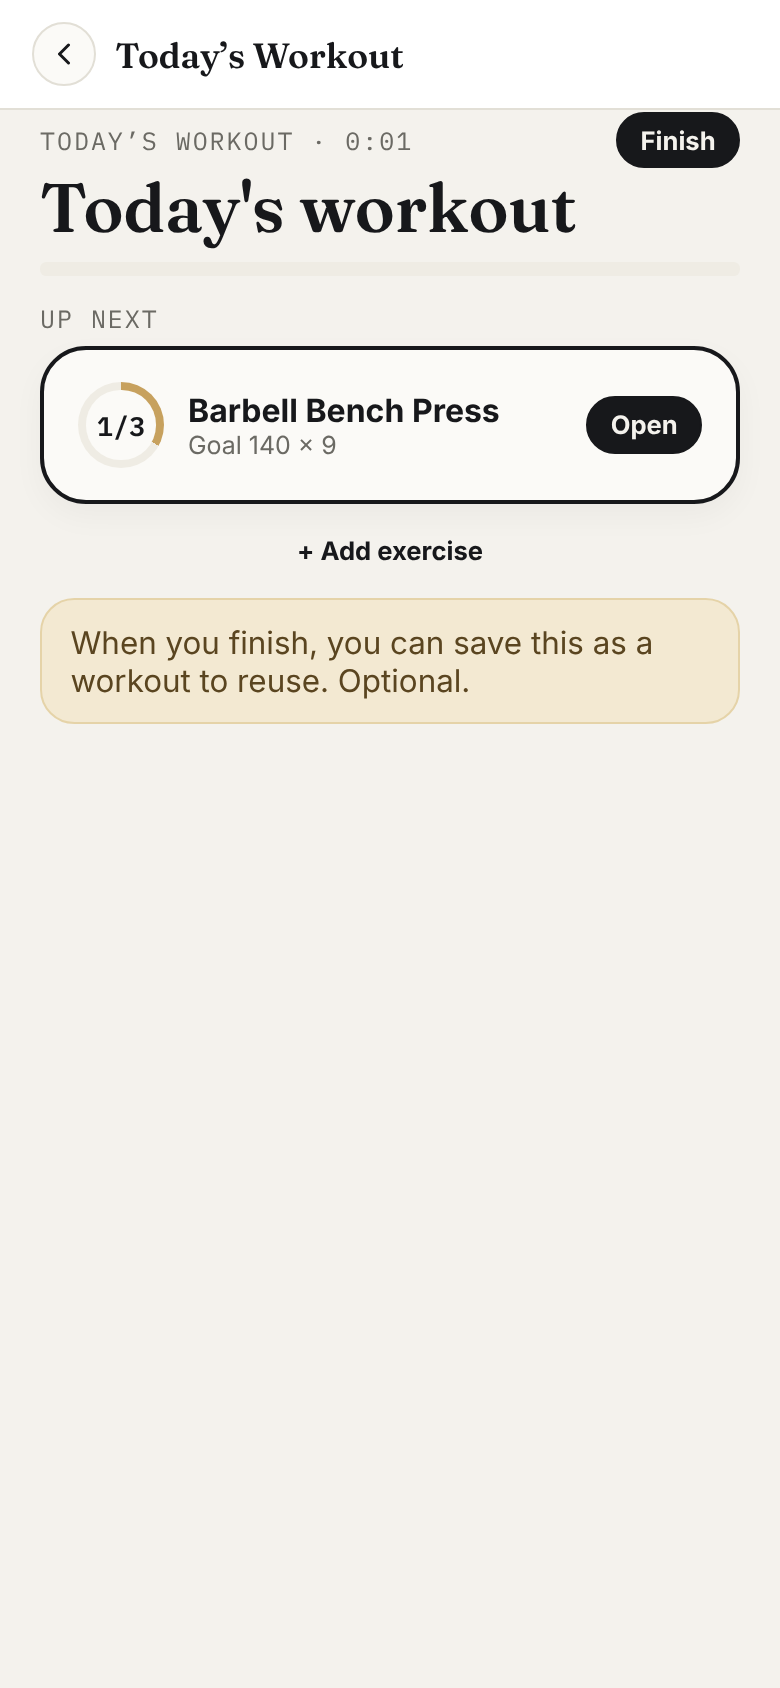
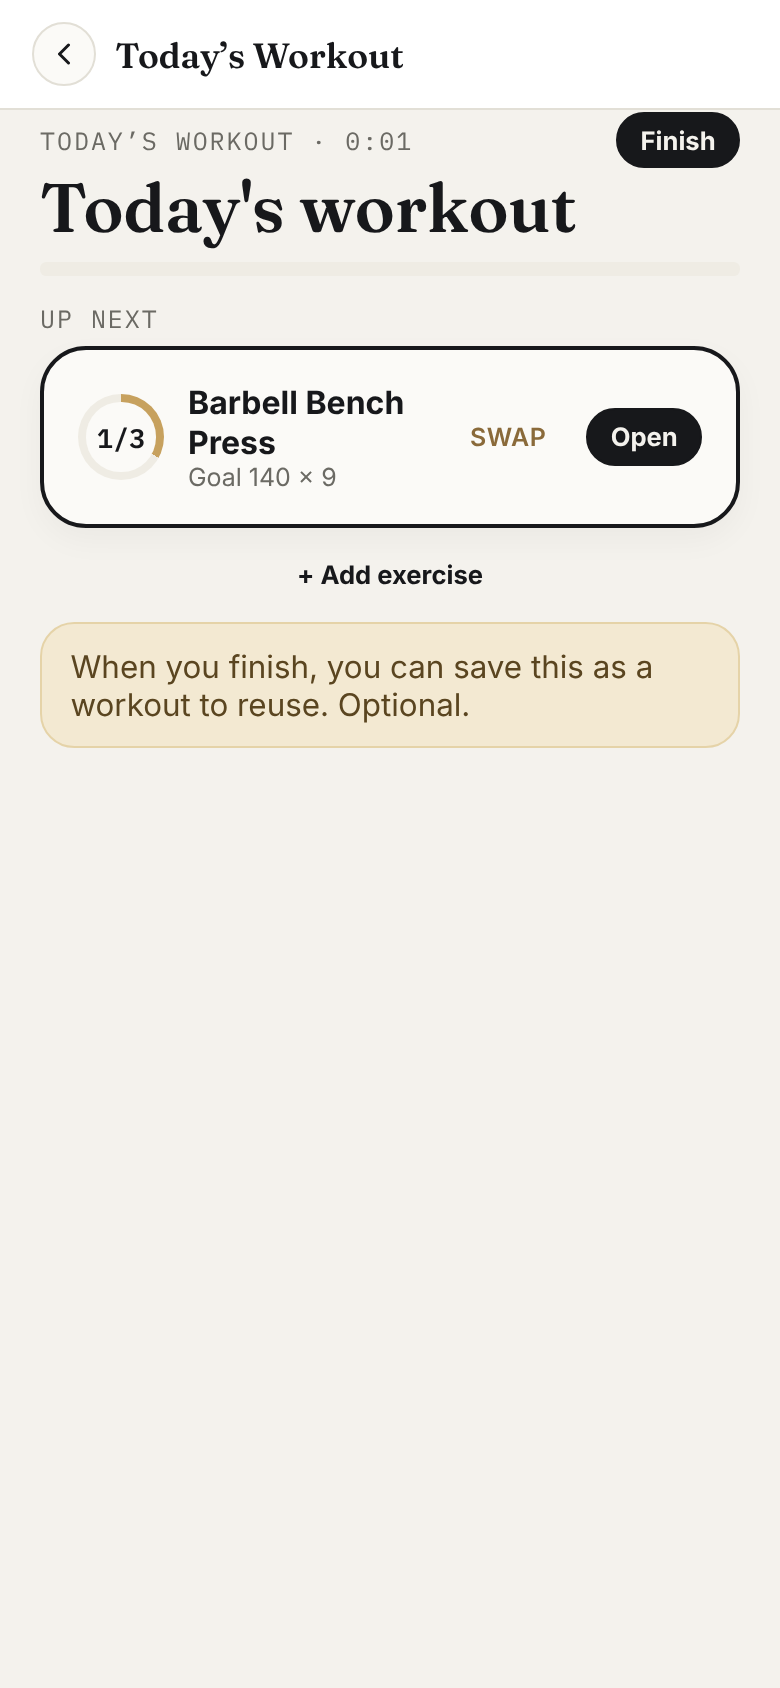
Smart program batch: Phase 6 - smart swaps (phones 8-9)
A real swap flow, reachable from the exercise detail screen and the
live-workout overview row (the Block Builder day editor keeps its own
existing substitute mechanism unchanged). Step 1: reason chips plus
ranked alternatives from Phase 1's rankSwaps() - "No equipment" filters
by the block's own equipment setting, "Hurts" shows the one safe line
and nothing else medical. Step 2: a suggested start weight from
suggestSwapStartWeight(), using only the user's own history on the new
exercise - never a guessed number. "Just today" touches only the live
session; "Replace in my version" copy-on-edits active_training_block
with Undo. Past sessions are never rewritten either way.

Claude-Session: https://claude.ai/code/session_015L9cyNh1v2vMK9ZcFbmR4a

diff --git a/index.html b/index.html
@@ -10488,6 +10488,7 @@ function renderLiftsTab() {
   if (showHowTargetsPage) return renderHowTargetsPage(panel);
   if (showDeloadScreen) return renderDeloadScreen(panel);
   if (showBlockView) return renderBlockView(panel);
+  if (showSmartSwap) return smartSwapStep === 2 ? renderSmartSwapStep2(panel) : renderSmartSwapStep1(panel);
   updateScreenSheetTitle();
   if (plusLogSetMode === 'pick') return renderPlusLogSetPicker(panel);
   if (plusLogSetMode === 'quick') return renderPlusLogSetQuick(panel, plusLogSetExerciseIdx);
@@ -10910,6 +10911,7 @@ function renderWorkoutOverview(panel) {
             <div><strong>${esc(current.name)}</strong></div>
             <div class="muted small">${goalLineForOverview(current)}</div>
           </div>
+          <button class="btn-link" style="flex:none;min-width:0;margin-right:0.5rem;" data-wo-swap="${esc(current.name)}">Swap</button>
           <button class="btn btn-sm btn-primary" style="flex:none;min-width:0;" data-wo-open="${esc(current.name)}">Open</button>
         </div>
       </div>` : ''}
@@ -10922,6 +10924,7 @@ function renderWorkoutOverview(panel) {
             <div>${esc(ex.name)}</div>
             <div class="muted small">${ex.prescribedSets ? `${ex.setsLogged.length}/${ex.prescribedSets} sets` : `${ex.setsLogged.length} set${ex.setsLogged.length === 1 ? '' : 's'} logged`}${isExerciseStalled(ex.name) ? ` &middot; stalled 4+ sessions` : ''}</div>
           </div>
+          <button class="btn-link" style="flex:none;min-width:0;" data-wo-swap="${esc(ex.name)}">Swap</button>
         </div>
       </div>`).join('')}
     <button class="btn btn-sm btn-ghost" id="qwAddMoreBtn" style="width:100%;margin-bottom:0.6rem;">+ Add exercise</button>
@@ -10932,6 +10935,10 @@ function renderWorkoutOverview(panel) {
   $$('[data-wo-open]', panel).forEach((row) => row.addEventListener('click', () => {
     const idx = session.exercises.findIndex((e) => e.name === row.dataset.woOpen);
     if (idx !== -1) { liveWorkoutScreen = idx; resetExerciseDetailInput(session.exercises[idx]); renderLiftsTab(); }
+  }));
+  $$('[data-wo-swap]', panel).forEach((btn) => btn.addEventListener('click', (e) => {
+    e.stopPropagation();
+    openSmartSwap(btn.dataset.woSwap);
   }));
 }
 
@@ -11121,7 +11128,8 @@ function renderExerciseDetailScreen(panel, idx) {
       </div>`).join('')}
 
       ${!exerciseDetailJustFinished ? `
-      <div class="row" style="justify-content:flex-end;margin-top:0.4rem;">
+      <div class="row" style="justify-content:space-between;margin-top:0.4rem;">
+        <button class="btn-link" id="exSwapBtn">Swap exercise</button>
         <button class="btn-link" id="exFinishExerciseBtn">${ex.setsLogged.length > 0 ? 'Finish exercise' : 'Skip exercise'} &rarr;</button>
       </div>` : ''}
 
@@ -11176,6 +11184,8 @@ function renderExerciseDetailScreen(panel, idx) {
   if (logBtn) logBtn.addEventListener('click', () => logCurrentSet(idx));
   const finishBtn = $('#exFinishExerciseBtn', panel);
   if (finishBtn) finishBtn.addEventListener('click', () => finishCurrentExercise(idx));
+  const swapBtn = $('#exSwapBtn', panel);
+  if (swapBtn) swapBtn.addEventListener('click', () => openSmartSwap(ex.name));
   const nextBtn = $('#exNextExerciseBtn', panel);
   if (nextBtn) nextBtn.addEventListener('click', () => goToNextExercise(idx));
 }
@@ -15907,6 +15917,15 @@ let blockBuilderStarting = false;
 let showBlockView = false;
 let showDeloadScreen = false; // true while the deload suggestion screen (phone 3) is open
 let blockLengthEditing = false; // inline "Change it in Edit program" chip row open on the block view
+
+// Smart Program batch, Phase 6 (phones 8-9) - smart swap, reached from
+// the exercise detail screen and the live-workout overview row.
+let showSmartSwap = false;
+let smartSwapStep = 1; // 1 (reason + ranked matches) | 2 (start weight + scope)
+let smartSwapExerciseName = null; // the exercise being swapped out
+let smartSwapReason = null; // one of SWAP_REASONS' keys, or null
+let smartSwapPickedName = null; // the candidate chosen in step 1
+let smartSwapScope = null; // 'just_today' | 'replace_version' | null
 // Manual per-instance overrides UI state (substitute/add/remove exercise,
 // edit sets/reps) — a one-off adjustment to the current plan, never the
 // rule engine. Keyed by "dayIndex:exerciseIndex" so each lives independent
@@ -16384,6 +16403,169 @@ function renderBlockReview(panel, block) {
     toast('This week set to a light week.');
     renderLiftsTab();
   });
+}
+
+// ══════════════════════════════════════════════════════════════════
+// Smart swap (SMART PROGRAM batch, Phase 6, phones 8-9). Reached from
+// the exercise detail screen and the live-workout overview row - the
+// Block Builder day editor already has its own substitute mechanism
+// (blockSwapPickerFor above), a separate, future-only program edit this
+// batch leaves as-is. rankSwaps()/suggestSwapStartWeight() are Phase 1's
+// pure engine functions; everything here is just the UI + the two
+// "apply" paths (just today / replace in my version).
+// ══════════════════════════════════════════════════════════════════
+const SWAP_REASONS = [
+  { key: 'equipment_taken', label: 'Equipment taken' },
+  { key: 'no_equipment', label: 'No equipment' },
+  { key: 'hurts', label: 'Hurts' },
+  { key: 'prefer_another', label: 'Prefer another' },
+];
+
+function openSmartSwap(exerciseName) {
+  showSmartSwap = true;
+  smartSwapStep = 1;
+  smartSwapExerciseName = exerciseName;
+  smartSwapReason = null;
+  smartSwapPickedName = null;
+  smartSwapScope = null;
+  renderLiftsTab();
+}
+function closeSmartSwap() {
+  showSmartSwap = false;
+  smartSwapExerciseName = null;
+  renderLiftsTab();
+}
+
+function renderSmartSwapStep1(panel) {
+  const def = exerciseDefFor(smartSwapExerciseName);
+  if (!def) { closeSmartSwap(); return; }
+  const block = state.profile?.active_training_block;
+  const inWorkoutNames = new Set((liveWorkoutSession?.exercises || []).filter((e) => !e.done).map((e) => e.name));
+  const triedNames = new Set(state.lifts.map((l) => l.exercise));
+  // "No equipment" filters by the user's equipment setting - the same
+  // active_training_block.equipment list the Block Builder itself uses;
+  // an empty list there means "any equipment" (no restriction), so there
+  // is nothing meaningful to filter by in that case.
+  const userEquipment = smartSwapReason === 'no_equipment' && block?.equipment?.length ? block.equipment : null;
+  const candidates = rankSwaps(def, state.exercises, { inWorkoutNames, triedNames, userEquipment }).slice(0, 6);
+
+  panel.innerHTML = `
+    <button class="btn-link" id="swapBackBtn" style="text-transform:none;text-decoration:underline;">&#8249; Back</button>
+    <div class="mono small" style="text-transform:uppercase;letter-spacing:0.08em;color:var(--text-dim);margin:0.3rem 0 0.1rem;">Swap exercise</div>
+    <div class="pagetitle" style="font-size:1.69rem;margin:0 0 0.1rem;">${esc(def.name)}</div>
+    <p class="muted small" style="margin:0 0 0.6rem;">${esc(MUSCLE_MAP_KEY_LABELS[def.muscle_map_key] || def.muscle_group || '')}${def.equipment ? ` &middot; ${esc(def.equipment.toLowerCase())}` : ''}</p>
+    <div class="card">
+      <div class="mono small" style="text-transform:uppercase;letter-spacing:0.08em;color:var(--text-dim);margin-bottom:0.4rem;">Why swap?</div>
+      <div class="chip-row">${SWAP_REASONS.map((r) => `<button class="chip ${smartSwapReason === r.key ? 'chip-active' : ''}" data-swap-reason="${r.key}">${esc(r.label)}</button>`).join('')}</div>
+      ${smartSwapReason === 'hurts' ? `<p class="muted small" style="margin-top:0.5rem;">Pick something that feels fine. If pain is sharp or does not go away, stop and check with a professional.</p>` : ''}
+    </div>
+    <div class="card">
+      <div class="mono small" style="text-transform:uppercase;letter-spacing:0.08em;color:var(--text-dim);margin-bottom:0.4rem;">Closest matches</div>
+      ${candidates.length ? candidates.map((c) => `
+        <div class="row" style="justify-content:space-between;align-items:center;padding:0.5rem 0;border-top:1px solid var(--border);">
+          <div><strong>${esc(c.name)}</strong><div class="muted small">${c.movement_type === def.movement_type ? 'Same movement' : 'Similar'} &middot; ${esc((c.equipment || '').toLowerCase())}</div></div>
+          <button class="btn btn-sm" data-swap-pick="${esc(c.name)}">Pick</button>
+        </div>`).join('') : `<p class="muted small" style="margin:0;">No close matches${userEquipment ? ' with your available equipment' : ''}.</p>`}
+    </div>
+  `;
+  $('#swapBackBtn').addEventListener('click', closeSmartSwap);
+  $$('[data-swap-reason]', panel).forEach((btn) => btn.addEventListener('click', () => {
+    smartSwapReason = smartSwapReason === btn.dataset.swapReason ? null : btn.dataset.swapReason;
+    renderLiftsTab();
+  }));
+  $$('[data-swap-pick]', panel).forEach((btn) => btn.addEventListener('click', () => {
+    smartSwapPickedName = btn.dataset.swapPick;
+    smartSwapStep = 2;
+    smartSwapScope = null;
+    renderLiftsTab();
+  }));
+}
+
+function renderSmartSwapStep2(panel) {
+  const newDef = exerciseDefFor(smartSwapPickedName);
+  if (!newDef) { smartSwapStep = 1; renderLiftsTab(); return; }
+  const ownHistoryOnNew = state.lifts.filter((l) => l.exercise === smartSwapPickedName).sort((a, b) => a.date.localeCompare(b.date));
+  const ownHistoryOnOld = state.lifts.filter((l) => l.exercise === smartSwapExerciseName).sort((a, b) => a.date.localeCompare(b.date));
+  const suggestion = suggestSwapStartWeight(ownHistoryOnNew, ownHistoryOnOld);
+  const lastOnNew = ownHistoryOnNew[ownHistoryOnNew.length - 1];
+  const block = state.profile?.active_training_block;
+  const isInBlock = !!block?.blockDays?.some((d) => d.exercises.some((e) => e.name === smartSwapExerciseName));
+
+  panel.innerHTML = `
+    <button class="btn-link" id="swapBackBtn" style="text-transform:none;text-decoration:underline;">&#8249; Back</button>
+    <div class="mono small" style="text-transform:uppercase;letter-spacing:0.08em;color:var(--text-dim);margin:0.3rem 0 0.1rem;">Swap exercise</div>
+    <div class="pagetitle" style="font-size:1.69rem;margin:0 0 0.4rem;">${esc(newDef.name)}</div>
+    <div class="card">
+      ${lastOnNew ? `<p style="margin:0 0 0.3rem;">Your history here: ${toDisplayWeight(lastOnNew.weight).value} &times; ${lastOnNew.reps_per_set?.length ? lastOnNew.reps_per_set[lastOnNew.reps_per_set.length - 1] : lastOnNew.reps}</p>` : ''}
+      <p style="margin:0;"><strong>Suggested start:</strong> ${suggestion.weight != null ? `${toDisplayWeight(suggestion.weight).value} &times; ${Math.min(...suggestion.reps)}&ndash;${Math.max(...suggestion.reps)}` : 'start light'}</p>
+      <p class="muted small" style="margin:0.4rem 0 0;">Based on your own sets. If you have no history on it, we suggest starting light instead of guessing.</p>
+    </div>
+    <div class="card">
+      <label class="row" style="justify-content:flex-start;align-items:flex-start;gap:0.5rem;padding:0.4rem 0;cursor:pointer;">
+        <input type="radio" name="swapScope" data-swap-scope="just_today" ${smartSwapScope === 'just_today' ? 'checked' : ''} style="margin-top:0.2rem;">
+        <span><strong>Just today</strong><br><span class="muted small">Your plan stays as it is.</span></span>
+      </label>
+      ${isInBlock ? `
+      <label class="row" style="justify-content:flex-start;align-items:flex-start;gap:0.5rem;padding:0.4rem 0;border-top:1px solid var(--border);cursor:pointer;">
+        <input type="radio" name="swapScope" data-swap-scope="replace_version" ${smartSwapScope === 'replace_version' ? 'checked' : ''} style="margin-top:0.2rem;">
+        <span><strong>Replace in my version</strong><br><span class="muted small">Makes your own copy if needed. Undo available.</span></span>
+      </label>` : ''}
+    </div>
+    <button class="btn btn-primary" id="swapApplyBtn" style="width:100%;" ${smartSwapScope ? '' : 'disabled'}>Swap</button>
+  `;
+  $('#swapBackBtn').addEventListener('click', () => { smartSwapStep = 1; renderLiftsTab(); });
+  $$('[data-swap-scope]', panel).forEach((input) => input.addEventListener('change', () => { smartSwapScope = input.dataset.swapScope; renderLiftsTab(); }));
+  const applyBtn = $('#swapApplyBtn', panel);
+  if (applyBtn) applyBtn.addEventListener('click', applySmartSwap);
+}
+
+// "Just today" only touches the live session (today's workout); "Replace
+// in my version" only touches active_training_block.blockDays. Neither
+// ever rewrites a past lifts row - progression history stays attached to
+// the exercise name itself, not whatever slot it filled (principle 2 and
+// this phase's own "past sessions untouched").
+async function applySmartSwap() {
+  const oldName = smartSwapExerciseName;
+  const newName = smartSwapPickedName;
+  const newDef = exerciseDefFor(newName);
+  if (!newName || !smartSwapScope) return;
+
+  if (smartSwapScope === 'just_today') {
+    const session = wlsEnsureSession();
+    const idx = session.exercises.findIndex((e) => e.name === oldName && !e.done);
+    if (idx !== -1) {
+      const entry = session.exercises[idx];
+      if (!entry.setsLogged.length) session.exercises.splice(idx, 1);
+      else entry.done = true; // whatever was already logged today stands as its own finished entry
+      wlsSave(session);
+    }
+    const newIdx = wlsAddExercise(newName, { trackingType: newDef?.tracking || 'weight_reps' });
+    liveWorkoutScreen = newIdx;
+    resetExerciseDetailInput(liveWorkoutSession.exercises[newIdx]);
+    closeSmartSwap();
+    toast(`Swapped to ${newName} for today.`);
+    renderLiftsTab();
+  } else {
+    const active = state.profile?.active_training_block;
+    if (!active) { closeSmartSwap(); return; }
+    const previous = active;
+    const nextBlockDays = active.blockDays.map((day) => ({
+      ...day,
+      exercises: day.exercises.map((e) => (e.name === oldName ? { ...e, name: newName, muscle: newDef?.muscle_map_key || e.muscle } : e)),
+    }));
+    const next = { ...active, blockDays: nextBlockDays };
+    const { error } = await supabase.from('profiles').update({ active_training_block: next }).eq('id', state.user.id);
+    if (error) { toast('Could not replace exercise: ' + error.message); return; }
+    state.profile = { ...state.profile, active_training_block: next };
+    closeSmartSwap();
+    showUndoToast(`Replaced ${oldName} with ${newName} in your version.`, async () => {
+      const { error: undoError } = await supabase.from('profiles').update({ active_training_block: previous }).eq('id', state.user.id);
+      if (undoError) { toast('Could not undo: ' + undoError.message); return; }
+      state.profile = { ...state.profile, active_training_block: previous };
+      renderAll();
+    });
+    renderAll();
+  }
 }
 
 function blockBuilderStep1Html() {
